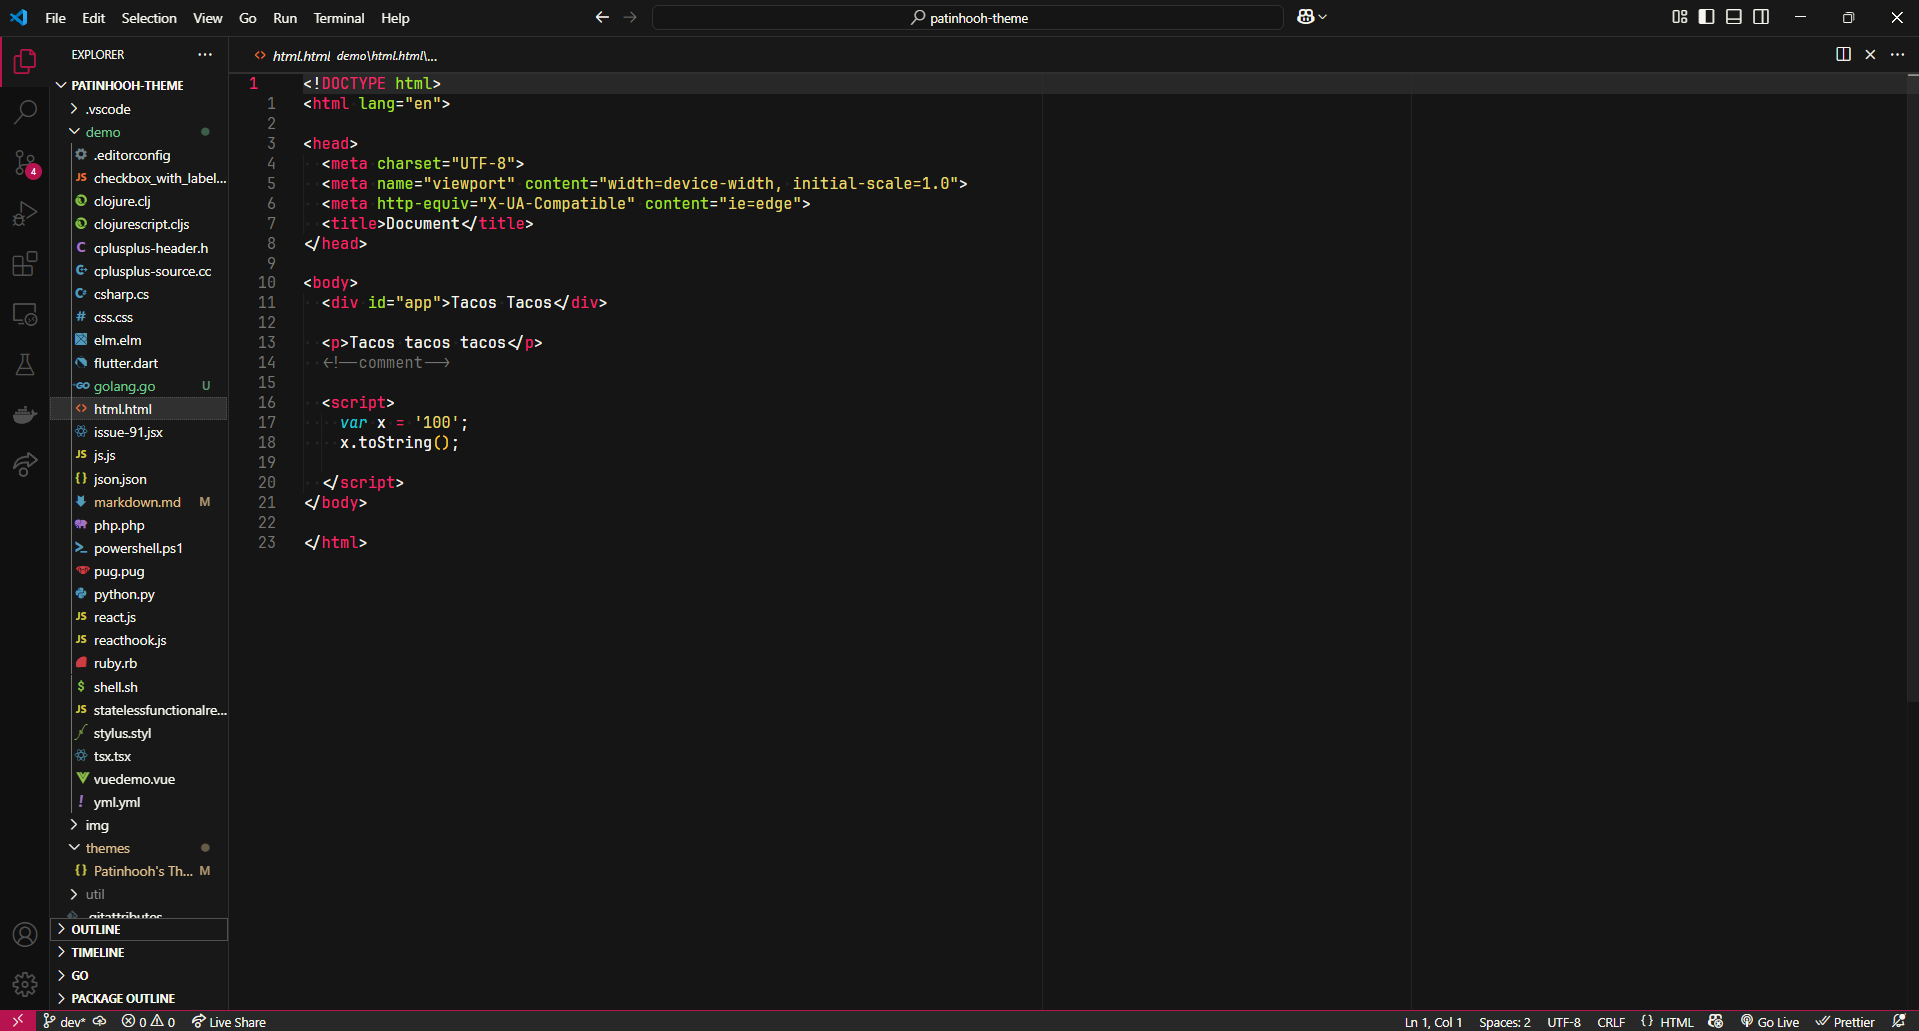
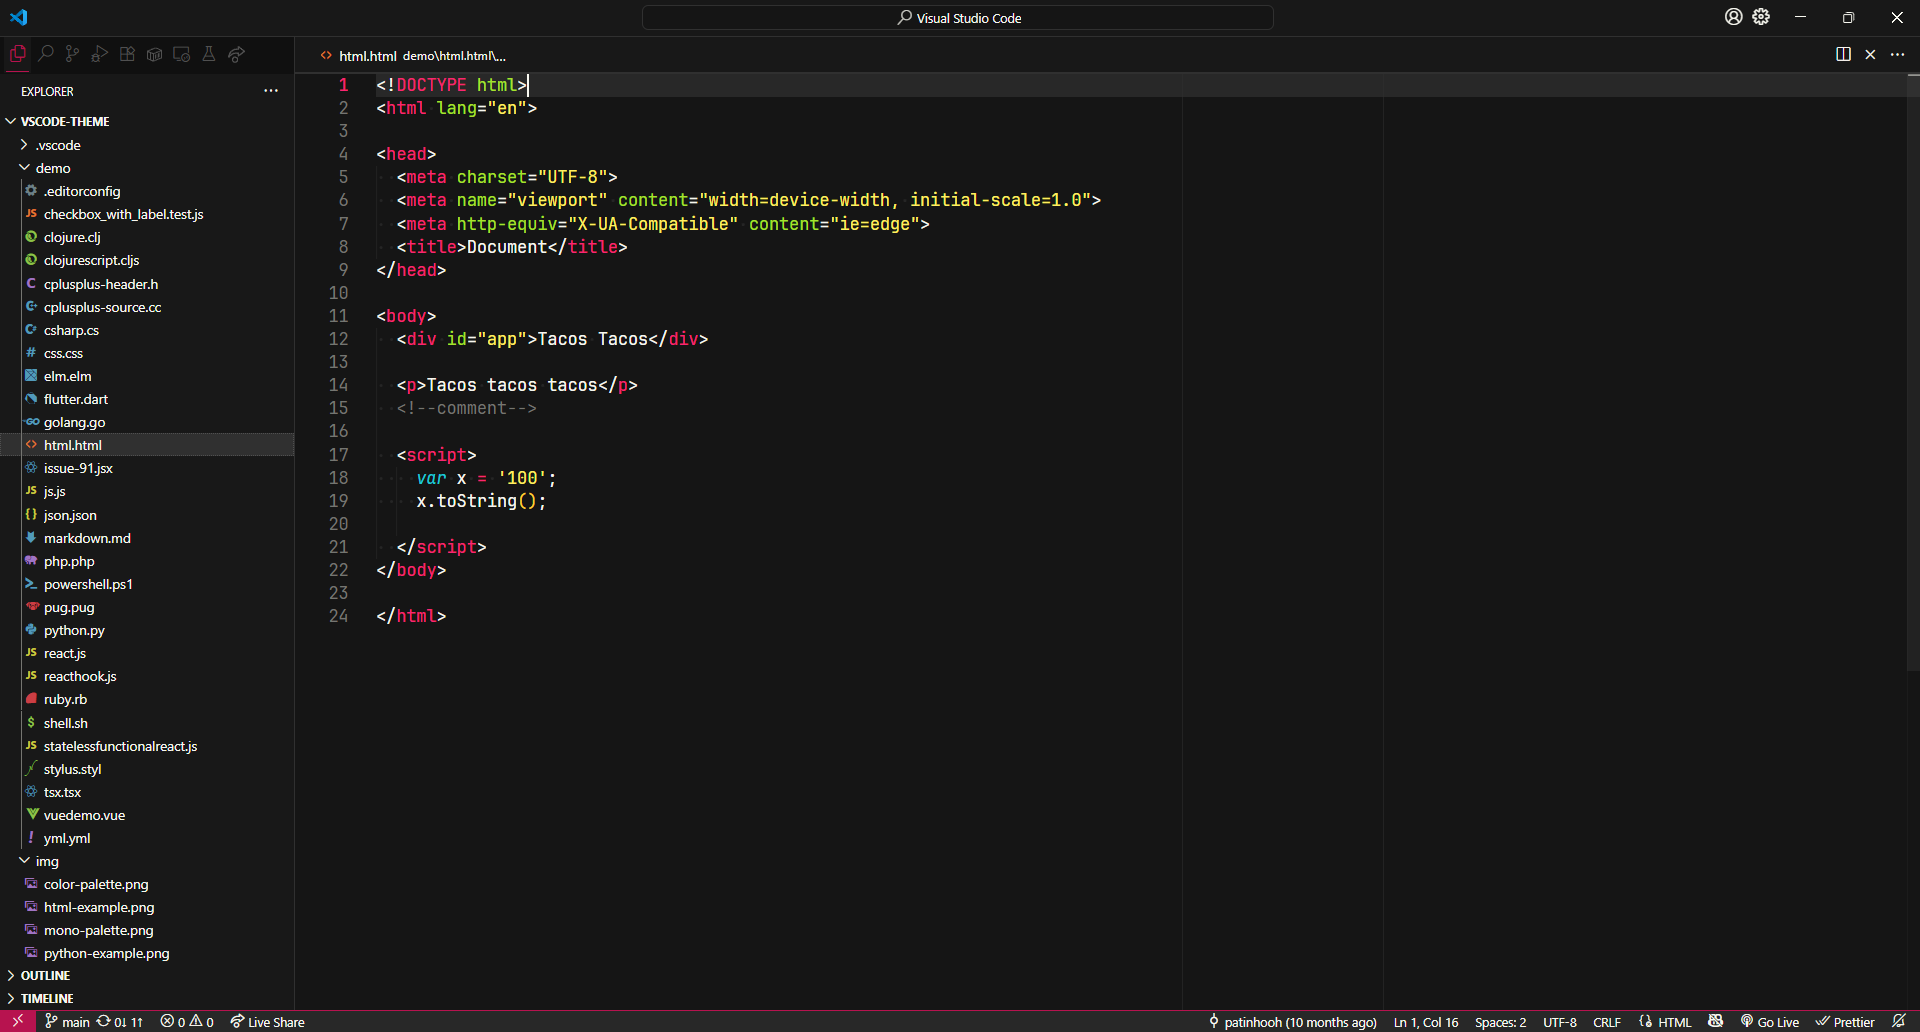
chore: pre launch version 0.0.2

diff --git a/CHANGELOG.md b/CHANGELOG.md
@@ -2,12 +2,9 @@
 
 All notable changes to this project will be documented in this file.
 
-The format is based on [Keep a Changelog](https://keepachangelog.com/en/1.0.0/), and this project adheres to [Semantic Versioning](https://semver.org/).
+The format is based on [Keep a Changelog](https://keepachangelog.com/en/1.0.0/).
 
-## \[Unreleased\]
-### Added
-- N/A
-
+## \[0.0.2\] - 2025-07-05
 ### Changed
 - Updated Markdown: reduced text color variation for improved consistency.
 - Updated Markdown: adjusted symbol colors to better match the theme used in other languages.
@@ -19,12 +16,3 @@ The format is based on [Keep a Changelog](https://keepachangelog.com/en/1.0.0/),
 ## \[0.0.1\] - 2025-07-04
 ### Added
 - Initial creation of the `patinhooh-theme`.
-
-### Changed
-- Nothing.
-
-### Fixed
-- Nothing.
-
-### Known Issues
-- None.

diff --git a/README.md b/README.md
@@ -12,17 +12,26 @@ Crafted because nothing out there matched my style. It's sharp, vibrant, and exa
 
 <br>
 
+## Languages Tailored So Far
+
+- Python
+- JSON
+- Markdown
+- HTML
+
+If you use a different language and something doesn’t look right, it’s probably because it hasn’t been customized yet. The theme is open source, so feel free to contribute improvements for your language!
+
+<br>
+
 ## Color Palette
 
-- **Color Palette:**
+- **Main Palette:**
 
-![Color Palette](img/color-palette.png)
+![Main Palette](img/main-palette.png)
 
 - **Monochromatic Palette:**
 
 ![Monochromatic Palette](img/mono-palette.png)
-
-- **Full Palette:** [View Palette](palette.json)
 
 <br>
 
